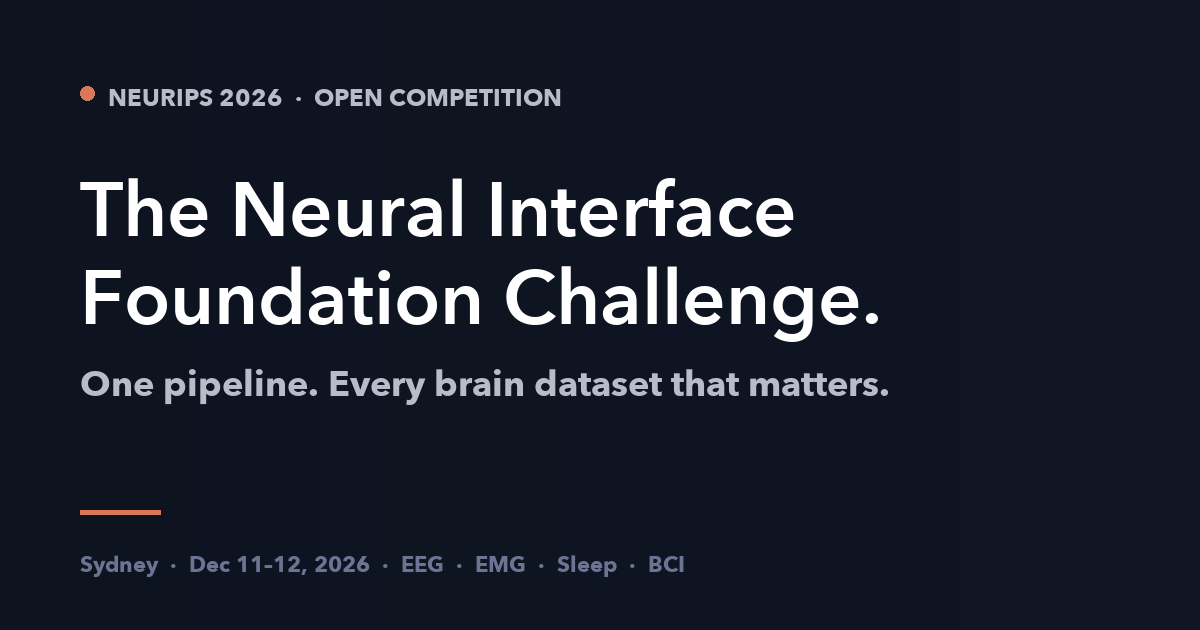
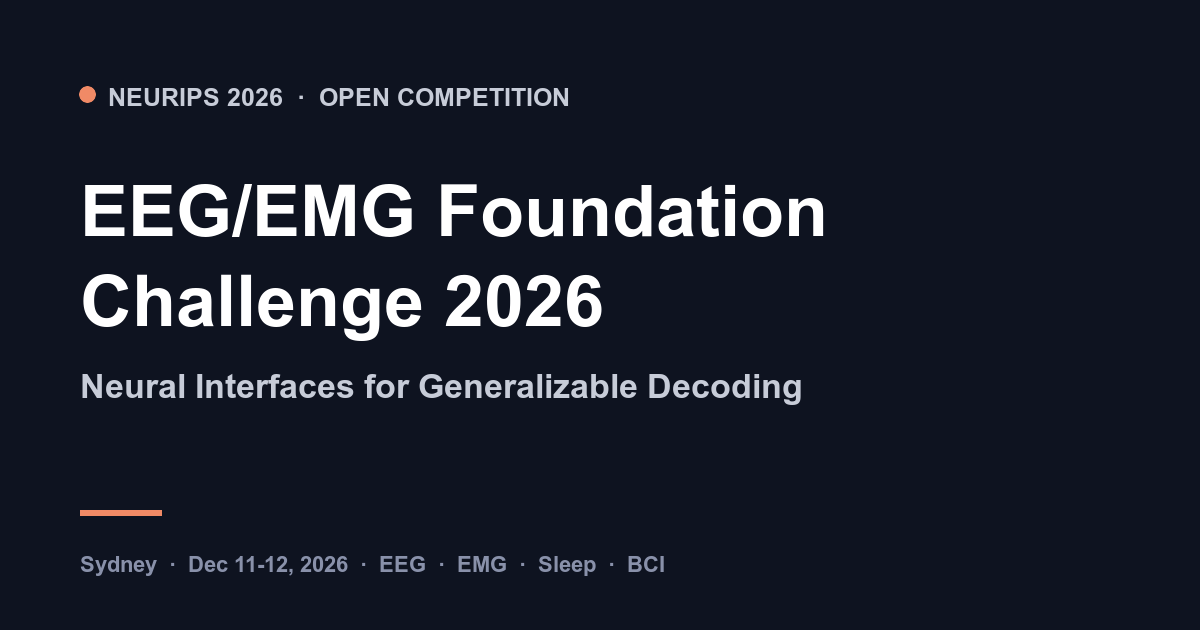
Update EEG/EMG challenge branding

diff --git a/organizers.html b/organizers.html
@@ -5,25 +5,25 @@
 <meta name="viewport" content="width=device-width, initial-scale=1" />
 <meta name="theme-color" content="#0e1320" />
 
-<title>Organizers · Neural Interface Foundation Challenge 2026</title>
-<meta name="description" content="The 24 organisers running The Neural Interface Foundation Challenge at NeurIPS 2026 Sydney. Lead: Bruno Aristimunha. Successor to the 2025 EEG Challenge." />
+<title>Organizers · EEG/EMG Foundation Challenge 2026</title>
+<meta name="description" content="The 24 organisers running the EEG/EMG Foundation Challenge 2026, Neural Interfaces for Generalizable Decoding, at NeurIPS 2026 Sydney. Lead: Bruno Aristimunha. Successor to the 2025 EEG Challenge." />
 
 <link rel="canonical" href="https://neuralinterface26.github.io/organizers.html" />
-<meta name="author" content="Bruno Aristimunha and the Neural Interface Foundation Challenge organising team" />
+<meta name="author" content="Bruno Aristimunha and the EEG/EMG Foundation Challenge organising team" />
 
-<meta property="og:title" content="Organizers — Neural Interface Foundation Challenge, NeurIPS 2026" />
-<meta property="og:description" content="The 24 organisers behind The Neural Interface Foundation Challenge at NeurIPS 2026 Sydney." />
+<meta property="og:title" content="Organizers — EEG/EMG Foundation Challenge 2026" />
+<meta property="og:description" content="The 24 organisers behind Neural Interfaces for Generalizable Decoding at NeurIPS 2026 Sydney." />
 <meta property="og:type" content="profile" />
 <meta property="og:url" content="https://neuralinterface26.github.io/organizers.html" />
-<meta property="og:site_name" content="Neural Interface Foundation Challenge" />
+<meta property="og:site_name" content="EEG/EMG Foundation Challenge" />
 <meta property="og:locale" content="en_US" />
 <meta property="og:image" content="https://neuralinterface26.github.io/assets/img/og-card.png" />
 <meta property="og:image:width" content="1200" />
 <meta property="og:image:height" content="630" />
-<meta property="og:image:alt" content="The Neural Interface Foundation Challenge — NeurIPS 2026 Sydney." />
+<meta property="og:image:alt" content="EEG/EMG Foundation Challenge 2026 | Neural Interfaces for Generalizable Decoding." />
 
 <meta name="twitter:card" content="summary_large_image" />
-<meta name="twitter:title" content="Organizers · Neural Interface Foundation Challenge 2026" />
+<meta name="twitter:title" content="Organizers · EEG/EMG Foundation Challenge 2026" />
 <meta name="twitter:description" content="24 organisers running the NeurIPS 2026 Sydney brain-decoding challenge." />
 <meta name="twitter:image" content="https://neuralinterface26.github.io/assets/img/og-card.png" />
 
@@ -42,12 +42,12 @@
 {
   "@context": "https://schema.org",
   "@type": "WebPage",
-  "name": "Organizers — Neural Interface Foundation Challenge",
+  "name": "Organizers — EEG/EMG Foundation Challenge 2026",
   "url": "https://neuralinterface26.github.io/organizers.html",
-  "description": "The 24 organisers running The Neural Interface Foundation Challenge at NeurIPS 2026 Sydney.",
+  "description": "The 24 organisers running the EEG/EMG Foundation Challenge 2026, Neural Interfaces for Generalizable Decoding, at NeurIPS 2026 Sydney.",
   "isPartOf": {
     "@type": "WebSite",
-    "name": "Neural Interface Foundation Challenge",
+    "name": "EEG/EMG Foundation Challenge",
     "url": "https://neuralinterface26.github.io/"
   },
   "breadcrumb": {
@@ -60,7 +60,7 @@
   },
   "about": {
     "@type": "Event",
-    "name": "The Neural Interface Foundation Challenge",
+    "name": "EEG/EMG Foundation Challenge 2026 | Neural Interfaces for Generalizable Decoding",
     "url": "https://neuralinterface26.github.io/"
   }
 }
@@ -89,8 +89,8 @@
         </svg>
       </span>
       <span>
-        <span class="title">Foundation Challenge</span>
-        <span class="sub">NeurIPS 2026 · v1.0</span>
+        <span class="title">EEG/EMG Foundation</span>
+        <span class="sub">Generalizable Decoding</span>
       </span>
     </a>
 
@@ -149,7 +149,7 @@
       <div class="vb-bread">
         <a href="index.html">docs</a>
         <span class="sep">/</span>
-        <a href="index.html">foundation-challenge</a>
+        <a href="index.html">eeg-emg-foundation-challenge</a>
         <span class="sep">/</span>
         <a href="organizers.html">about</a>
         <span class="sep">/</span>
@@ -180,7 +180,7 @@
       <div class="org-section-head">
         <div>
           <span class="bs-eyebrow"><span class="dot"></span> Organizing team · author order</span>
-          <h2 id="team-heading">The 24 people running the Foundation Challenge.</h2>
+          <h2 id="team-heading">The 24 people running the EEG/EMG Foundation Challenge.</h2>
           <p>Listed in the exact order of the proposal's author block. Track / role tag on each card maps to the four challenges (EEG-to-IMG, BCI decoding, sleep onset, EMG-to-control), the core platform team, the host organisation, or the senior advisory bench.</p>
         </div>
         <div class="org-section-side">24 organizers · 1 lead</div>
@@ -216,7 +216,7 @@
               <span class="role">Core · operations</span>
             </div>
           </div>
-          <p class="bio">Yneuro and Imperial College Bioengineering. PhD work on EMG biomechanics modelling. Core team for the Foundation Challenge: runs day-to-day platform operations and connects the Yneuro engineering side with the academic track teams.</p>
+          <p class="bio">Yneuro and Imperial College Bioengineering. PhD work on EMG biomechanics modelling. Core team for the EEG/EMG Foundation Challenge: runs day-to-day platform operations and connects the Yneuro engineering side with the academic track teams.</p>
           <div class="affil">
             <span class="bs-pill">Yneuro</span>
             <span class="bs-pill">Imperial</span>
@@ -471,7 +471,7 @@
               <span class="role">Host org · Yneuro CEO</span>
             </div>
           </div>
-          <p class="bio">Founder &amp; CEO of Yneuro, the host organisation for the Foundation Challenge. CentraleSupélec / ESPCI Paris-PSL alum, Stanford School of Medicine master's. Yneuro provides infrastructure and operational support for the challenge.</p>
+          <p class="bio">Founder &amp; CEO of Yneuro, the host organisation for the EEG/EMG Foundation Challenge. CentraleSupélec / ESPCI Paris-PSL alum, Stanford School of Medicine master's. Yneuro provides infrastructure and operational support for the challenge.</p>
           <div class="affil">
             <span class="bs-pill">Yneuro</span>
             <span class="bs-pill">CEO</span>
@@ -612,7 +612,7 @@
             </svg>
           </span>
           <span>
-            <span class="title">Foundation Challenge</span>
+            <span class="title">EEG/EMG Foundation</span>
             <span class="sub">NeurIPS 2026 · Sydney</span>
           </span>
         </a>
@@ -626,7 +626,7 @@
       </div>
       <div class="vb-footer-row">
         <span class="vb-footer-meta">
-          © 2026 Neural Interface Foundation Challenge · MIT licensed · Continues the work of the <a href="https://eeg2025.github.io/" target="_blank" rel="noreferrer noopener" style="color: inherit; text-decoration: underline;">EEG 2025 Challenge</a>
+          © 2026 EEG/EMG Foundation Challenge · MIT licensed · Continues the work of the <a href="https://eeg2025.github.io/" target="_blank" rel="noreferrer noopener" style="color: inherit; text-decoration: underline;">EEG 2025 Challenge</a>
         </span>
         <span class="vb-footer-meta">
           Organized by Yneuro · UCSD · Imperial · Meta FAIR · Donders · Alljoined · Inria Bordeaux · ISAE-SUPAERO · InteraXon · Meta Reality Labs · Paris-Saclay · CNRS · Salk · ChaLearn

diff --git a/index.html b/index.html
@@ -5,27 +5,27 @@
 <meta name="viewport" content="width=device-width, initial-scale=1" />
 <meta name="theme-color" content="#0e1320" />
 
-<title>Neural Interface Foundation Challenge · NeurIPS 2026 Sydney</title>
-<meta name="description" content="Open-source brain-decoding benchmark for NeurIPS 2026 in Sydney. Four tracks across EEG, EMG, sleep, and BCI. Submissions Jun 23 — Oct 31, 2026." />
+<title>EEG/EMG Foundation Challenge 2026 | Neural Interfaces for Generalizable Decoding</title>
+<meta name="description" content="Open-source EEG/EMG decoding benchmark for NeurIPS 2026 in Sydney. Neural Interfaces for Generalizable Decoding across EEG, EMG, sleep, and BCI tracks. Submissions Jun 23 — Oct 31, 2026." />
 
 <link rel="canonical" href="https://neuralinterface26.github.io/" />
-<meta name="author" content="Bruno Aristimunha and the Neural Interface Foundation Challenge organising team" />
+<meta name="author" content="Bruno Aristimunha and the EEG/EMG Foundation Challenge organising team" />
 <meta name="keywords" content="NeurIPS 2026, EEG benchmark, brain-computer interface, BCI competition, EMG decoding, sleep onset, EEG-to-image, foundation models, Braindecode, MOABB" />
 
-<meta property="og:title" content="The Neural Interface Foundation Challenge — NeurIPS 2026 Sydney" />
-<meta property="og:description" content="Open-source brain-decoding benchmark. Four tracks: EEG-to-IMG, BCI decoding, sleep onset, EMG-to-control. Submissions Jun 23 — Oct 31, 2026." />
+<meta property="og:title" content="EEG/EMG Foundation Challenge 2026 | Neural Interfaces for Generalizable Decoding" />
+<meta property="og:description" content="Open-source neural-interface benchmark. Four tracks: EEG-to-IMG, BCI decoding, sleep onset, EMG-to-control. Submissions Jun 23 — Oct 31, 2026." />
 <meta property="og:type" content="website" />
 <meta property="og:url" content="https://neuralinterface26.github.io/" />
-<meta property="og:site_name" content="Neural Interface Foundation Challenge" />
+<meta property="og:site_name" content="EEG/EMG Foundation Challenge" />
 <meta property="og:locale" content="en_US" />
 <meta property="og:image" content="https://neuralinterface26.github.io/assets/img/og-card.png" />
 <meta property="og:image:width" content="1200" />
 <meta property="og:image:height" content="630" />
-<meta property="og:image:alt" content="The Neural Interface Foundation Challenge — NeurIPS 2026 Sydney, Dec 11–12. EEG, EMG, sleep, BCI tracks." />
+<meta property="og:image:alt" content="EEG/EMG Foundation Challenge 2026 | Neural Interfaces for Generalizable Decoding. NeurIPS 2026 Sydney, Dec 11–12." />
 
 <meta name="twitter:card" content="summary_large_image" />
-<meta name="twitter:title" content="Neural Interface Foundation Challenge · NeurIPS 2026 Sydney" />
-<meta name="twitter:description" content="Open-source brain-decoding benchmark. EEG, EMG, sleep, BCI. Submissions Jun 23 — Oct 31, 2026." />
+<meta name="twitter:title" content="EEG/EMG Foundation Challenge 2026 | Neural Interfaces for Generalizable Decoding" />
+<meta name="twitter:description" content="Open-source EEG/EMG decoding benchmark for NeurIPS 2026 Sydney. Submissions Jun 23 — Oct 31, 2026." />
 <meta name="twitter:image" content="https://neuralinterface26.github.io/assets/img/og-card.png" />
 
 <link rel="preconnect" href="https://fonts.googleapis.com" />
@@ -42,9 +42,9 @@
 {
   "@context": "https://schema.org",
   "@type": "Event",
-  "name": "The Neural Interface Foundation Challenge",
-  "alternateName": "NIFC 2026",
-  "description": "An open-source benchmark for AI models of brain activity, run as a NeurIPS 2026 competition. Four tracks across EEG-to-image, BCI decoding, sleep-onset detection, and EMG-to-control.",
+  "name": "EEG/EMG Foundation Challenge 2026 | Neural Interfaces for Generalizable Decoding",
+  "alternateName": "Neural Interfaces for Generalizable Decoding",
+  "description": "An open-source benchmark for generalizable EEG/EMG decoding, run as a NeurIPS 2026 competition. Four tracks across EEG-to-image, BCI decoding, sleep-onset detection, and EMG-to-control.",
   "startDate": "2026-06-23",
   "endDate": "2026-12-12",
   "eventStatus": "https://schema.org/EventScheduled",
@@ -123,8 +123,8 @@
         </svg>
       </span>
       <span>
-        <span class="title">Foundation Challenge</span>
-        <span class="sub">NeurIPS 2026 · v1.0</span>
+        <span class="title">EEG/EMG Foundation</span>
+        <span class="sub">Generalizable Decoding</span>
       </span>
     </a>
 
@@ -183,7 +183,7 @@
       <div class="vb-bread">
         <a href="#top">docs</a>
         <span class="sep">/</span>
-        <a href="#top">foundation-challenge</a>
+        <a href="#top">eeg-emg-foundation-challenge</a>
         <span class="sep">/</span>
         <strong>overview</strong>
       </div>
@@ -199,9 +199,9 @@
     <section class="vb-hero" id="quickstart" aria-labelledby="hero-heading">
       <div class="vb-hero-text">
         <span class="bs-eyebrow"><span class="dot"></span> NeurIPS 2026 · open competition</span>
-        <h1 id="hero-heading">The Neural Interface Foundation Challenge.</h1>
+        <h1 id="hero-heading">EEG/EMG Foundation Challenge 2026.</h1>
         <p>
-          <strong>The Neural Interface Foundation Challenge</strong> is a unified, open-source benchmark for AI models of brain activity.
+          <strong>Neural Interfaces for Generalizable Decoding</strong> is a unified, open-source benchmark for AI models of EEG/EMG activity.
           94 datasets, 36 EEG tasks, 14 architectures — all behind a standardized BIDS-first interface.
           Pretrain once. Evaluate everywhere. Reproduce by construction.
         </p>
@@ -857,7 +857,7 @@
             </svg>
           </span>
           <span>
-            <span class="title">Foundation Challenge</span>
+            <span class="title">EEG/EMG Foundation</span>
             <span class="sub">NeurIPS 2026 · Sydney</span>
           </span>
         </a>
@@ -871,7 +871,7 @@
       </div>
       <div class="vb-footer-row">
         <span class="vb-footer-meta">
-          © 2026 Neural Interface Foundation Challenge · MIT licensed · Continues the work of the <a href="https://eeg2025.github.io/" target="_blank" rel="noreferrer noopener" style="color: inherit; text-decoration: underline;">EEG 2025 Challenge</a>
+          © 2026 EEG/EMG Foundation Challenge · MIT licensed · Continues the work of the <a href="https://eeg2025.github.io/" target="_blank" rel="noreferrer noopener" style="color: inherit; text-decoration: underline;">EEG 2025 Challenge</a>
         </span>
         <span class="vb-footer-meta">
           Organized by Yneuro · UCSD · Imperial · Meta FAIR · Donders · Alljoined · Inria Bordeaux · ISAE-SUPAERO · InteraXon · Meta Reality Labs · Paris-Saclay · CNRS · Salk · ChaLearn

diff --git a/assets/js/eeg.js b/assets/js/eeg.js
@@ -1,4 +1,4 @@
-/* The Neural Interface Foundation Challenge — EEG SVG generators (vanilla port
+/* EEG/EMG Foundation Challenge 2026 — EEG SVG generators (vanilla port
    of primitives.jsx). Hydrates [data-eeg-host] containers with multi-channel
    scrolling EEG SVGs and [data-matrix-seed] containers with a small
    spectrogram-like grid. */

diff --git a/assets/js/ui.js b/assets/js/ui.js
@@ -1,4 +1,4 @@
-/* Biosignal 2026 — page interactions:
+/* EEG/EMG Foundation Challenge 2026 — page interactions:
    - Animated count-up on [data-count-to] when in viewport
    - Copy-to-clipboard on [data-copy] inside .bs-code blocks
    - Mobile sidebar toggle (#mobile-burger / .vb-sidebar)

diff --git a/assets/css/landing.css b/assets/css/landing.css
@@ -1,4 +1,4 @@
-/* Biosignal 2026 — landing layout (Variation B: NeuroAI Docs).
+/* EEG/EMG Foundation Challenge 2026 — landing layout (Variation B: NeuroAI Docs).
    Sticky sidebar + main column on desktop, single-column flow on mobile. */
 
 .preview-banner {

diff --git a/assets/css/base.css b/assets/css/base.css
@@ -1,4 +1,4 @@
-/* Biosignal 2026 — base reset + reusable atoms (eyebrow, kicker, pill, btn,
+/* EEG/EMG Foundation Challenge 2026 — base reset + reusable atoms (eyebrow, kicker, pill, btn,
    badge, code block) shared across the landing. */
 
 *,

diff --git a/assets/css/tokens.css b/assets/css/tokens.css
@@ -1,4 +1,4 @@
-/* Biosignal 2026 — design tokens.
+/* EEG/EMG Foundation Challenge 2026 — design tokens.
    Scoped to :root and the .bs-root surface, ported from the prototype's
    tokens.css and styles.css. */
 

diff --git a/assets/css/organizers.css b/assets/css/organizers.css
@@ -1,4 +1,4 @@
-/* Biosignal 2026 — organizers page styles. */
+/* EEG/EMG Foundation Challenge 2026 — organizers page styles. */
 
 .org-section {
   padding: 56px 32px;
